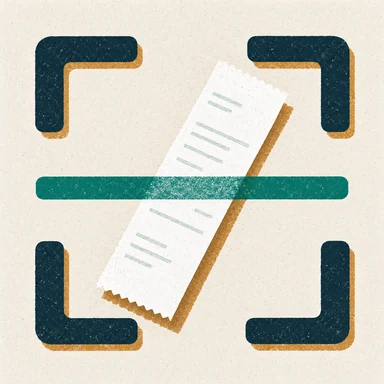
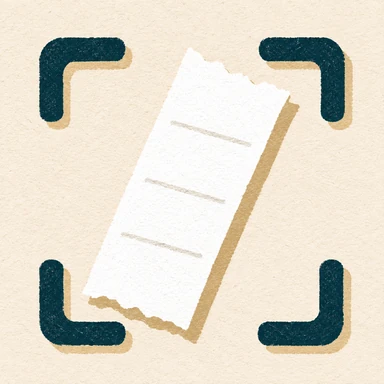
feat(scan): garis hijaunya yang menyapu, ilustrasinya diam
Sebelumnya seluruh ilustrasi diangguk 3 px selama AI membaca struk. Mata
membacanya sebagai gambar goyang, bukan sebagai alat yang sedang memindai —
seorang pengguna menanyakan tepat itu.

Sekarang ilustrasinya dua lapis:

- `scan.webp` — bingkai bidik, struk, dan bayangannya, tanpa garis hijau.
- `scan-line.webp` — satu berkas garis hijau bergrain dengan latar transparan.

Hanya lapis kedua yang bergerak: `translate3d` dari 6 px ke 78 px, 2,3 detik,
bolak-balik dengan easing yang melambat di kedua ujung. Transform dan bukan
`top`/`height`, jadi kompositor yang menjalankannya di 60 fps tanpa reflow;
tidak ada frame tetap yang bisa tersendat. Dengan `prefers-reduced-motion:
reduce` animasinya mati dan garis berhenti di tengah.

Garisnya diletakkan 10% dari tepi dengan lebar 80% supaya berjalan di dalam
bingkai bidik, tidak menimpa bracket — kalau menimpa, ia terbaca sebagai
tempelan datar di atas gambar, bukan cahaya yang menyapu di dalam bingkai.

Dibuktikan dengan probe WebKit: transform garis berubah tiap 250 ms
(8,6 → 15,2 → 25,8 → 39,6 → 55,4 → 66,9 px), transform ilustrasi `none`, dan
posisi garis tetap di dalam kotak ilustrasi pada semua fase (0-100%).

Kedua aset dibuat lewat `image_gen` Codex dari kontrak seni yang sama
(`ART_CONTRACT.md`); lapis garis diminta eksplisit tanpa latar dan tanpa
bayangan supaya bisa bergerak sendiri.

Uji baru `photo-intents.spec.ts` 40b menjaga sifat ini: ilustrasi `none`,
[…]

diff --git a/frontend/tests/photo-intents.spec.ts b/frontend/tests/photo-intents.spec.ts
@@ -113,6 +113,64 @@ test.describe('Bill baru — foto boleh dibaca AI, boleh cuma dilampirkan', () =
     await expect(page.getByText(/Membaca struk…/)).toHaveCount(0)
   })
 
+  test('40b. yang bergerak saat memindai hanya garis hijaunya, bukan ilustrasinya', async ({ page }) => {
+    await freshUser(page, 'Candra')
+    // Tahan keadaan memindai cukup lama untuk diukur.
+    await page.route('**/api/ocr', async (route) => {
+      await new Promise((resolve) => setTimeout(resolve, 15000))
+      await route.fulfill({
+        status: 422,
+        contentType: 'application/json',
+        body: JSON.stringify({ detail: 'terlalu lama' }),
+      })
+    })
+
+    await page.goto('/create')
+    await pickPhotoThrough(page, 'Scan pakai AI')
+    await expect(page.locator('.ds-scan-beam')).toBeVisible({ timeout: 20000 })
+
+    /* Ilustrasinya harus diam: dulu seluruh gambar diangguk 3 px, dan mata
+       membacanya sebagai gambar goyang, bukan alat yang sedang memindai. */
+    const latar = await page.evaluate(
+      () => getComputedStyle(document.querySelector('.ds-scan-art > img') as Element).transform,
+    )
+    expect(latar, 'ilustrasi tidak boleh ikut bergerak').toBe('none')
+
+    // Garisnya bergerak, dan bergerak dengan transform (kompositor, bukan layout).
+    const baca = () =>
+      page.evaluate(() => {
+        const beam = document.querySelector('.ds-scan-beam') as HTMLElement
+        const art = document.querySelector('.ds-scan-art') as HTMLElement
+        const gaya = getComputedStyle(beam)
+        return {
+          transform: gaya.transform,
+          animasi: gaya.animationName,
+          beam: beam.getBoundingClientRect().toJSON(),
+          art: art.getBoundingClientRect().toJSON(),
+        }
+      })
+
+    const awal = await baca()
+    expect(awal.animasi).toBe('scan-sweep')
+    await page.waitForTimeout(500)
+    const tengah = await baca()
+    expect(tengah.transform, 'garis harus bergerak').not.toBe(awal.transform)
+
+    // Selama bergerak, garis tetap di dalam kotak ilustrasi.
+    for (const f of [awal, tengah]) {
+      expect(f.beam.top, 'garis keluar dari atas kotak').toBeGreaterThanOrEqual(f.art.top - 0.5)
+      expect(f.beam.bottom, 'garis keluar dari bawah kotak').toBeLessThanOrEqual(f.art.bottom + 0.5)
+    }
+
+    // Yang meminta gerak dikurangi: garisnya diam di tengah, bukan melambat.
+    await page.emulateMedia({ reducedMotion: 'reduce' })
+    const diam = await page.evaluate(() => {
+      const beam = document.querySelector('.ds-scan-beam') as HTMLElement
+      return getComputedStyle(beam).animationName
+    })
+    expect(diam, 'gerak dikurangi berarti animasinya mati').toBe('none')
+  })
+
   test('41. struk yang pajaknya sudah termasuk: kolom pajak dikunci, bill ditandai', async ({ page }) => {
     await freshUser(page, 'Budi')
     await page.route('**/api/ocr', (route) =>

diff --git a/frontend/src/app.css b/frontend/src/app.css
@@ -372,12 +372,50 @@ p, small, .app-note { text-wrap: pretty; }
 
 .welcome-art { border-radius: 22px; object-fit: cover; }
 
-.ds-create-hero.is-scanning img {
-  animation: scan-settle 1.6s ease-in-out infinite;
+/* Ilustrasi pindai: gambarnya diam, hanya garis hijaunya yang bergerak.
+   Sebelumnya seluruh ilustrasi diangguk 3 px — mata membacanya sebagai gambar
+   yang goyang, bukan sebagai alat yang sedang memindai. Sekarang yang bergerak
+   hanya satu lapis: berkas garis hasil generate (`scan-line.webp`) di atas
+   latar yang diam, digerakkan `transform` saja sehingga kompositor yang
+   menjalankannya di 60 fps tanpa reflow dan tanpa satu pun frame tetap. */
+.ds-scan-art {
+  position: relative;
+  width: 120px;
+  height: 120px;
+  flex: none;
+  border-radius: 16px;
+  overflow: hidden;
+  isolation: isolate;
 }
-@keyframes scan-settle {
-  0%, 100% { transform: translateY(0) }
-  50% { transform: translateY(-3px) }
+.ds-scan-art > img:first-child {
+  width: 100%;
+  height: 100%;
+  border-radius: 16px;
+  display: block;
+}
+.ds-create-hero .ds-scan-beam {
+  position: absolute;
+  /* Sedikit di dalam bingkai bidik: kalau garisnya menimpa bracket, yang
+     terlihat adalah tempelan datar di atas gambar, bukan cahaya yang menyapu
+     di dalam bingkai. */
+  left: 10%;
+  width: 80%;
+  height: auto;
+  top: 0;
+  pointer-events: none;
+  will-change: transform;
+  animation: scan-sweep 2.3s cubic-bezier(.45, 0, .55, 1) infinite alternate;
+}
+@keyframes scan-sweep {
+  from { transform: translate3d(0, 6px, 0) }
+  to   { transform: translate3d(0, 78px, 0) }
+}
+/* Kurangi gerak, jangan sekadar memperlambat: garisnya berhenti di tengah. */
+@media (prefers-reduced-motion: reduce) {
+  .ds-create-hero .ds-scan-beam {
+    animation: none;
+    transform: translate3d(0, 42px, 0);
+  }
 }
 
 .welcome-body {

diff --git a/frontend/src/screens/Create.tsx b/frontend/src/screens/Create.tsx
@@ -9,6 +9,7 @@ import { Alert, Button, DateField, Field, SectionHead, Sheet } from '../ds/primi
 import { Plus, X } from '@phosphor-icons/react'
 import createHeroArt from '../assets/create-hero.webp'
 import scanArt from '../assets/scan.webp'
+import scanLine from '../assets/scan-line.webp'
 import { invalidateMoneyViews } from '../lib/mutations'
 import { useContacts, type Contact } from '../lib/queries'
 import { PeoplePicker } from '../components/PeoplePicker'
@@ -390,7 +391,11 @@ export function Create({ identityId }: { identityId: string | null }) {
         </section>
       ) : photoBusy ? (
         <div className={'ds-create-hero' + (photoBusy === 'ocr' ? ' is-scanning' : '')} role="status">
-          <img src={scanArt} alt="" width={92} height={92} />
+          {/* Ilustrasi diam; hanya garis hijaunya yang menyapu atas-bawah. */}
+          <span className="ds-scan-art">
+            <img src={scanArt} alt="" width={120} height={120} />
+            {photoBusy === 'ocr' ? <img className="ds-scan-beam" src={scanLine} alt="" aria-hidden="true" /> : null}
+          </span>
           <div>
             <b>
               {photoBusy === 'ocr'

diff --git a/TEST-MATRIX.md b/TEST-MATRIX.md
@@ -296,7 +296,7 @@ Dijalankan di Chromium headful yang sudah punya sesi Google, terhadap build live
 
 ## Kotak hitam 1.0 — e2e sebagai orang yang belum pernah melihat aplikasi
 
-Sembilan belas berkas, **134 kasus**, semuanya dijalankan lewat layar: tidak ada
+Sembilan belas berkas, **135 kasus**, semuanya dijalankan lewat layar: tidak ada
 satu pun pemanggilan API langsung untuk menyiapkan keadaan, karena yang diuji
 adalah apa yang bisa dilakukan orang, bukan apa yang bisa dilakukan klien HTTP.
 
@@ -325,7 +325,7 @@ Sejak bug sheet iPhone, setiap kasus dijalankan di **dua mesin**: `mobile-chrome
 | `tests/blackbox-eighteen.spec.ts` | 6 | orang yang belum tahu apa-apa: tautan bill dari orang asing, langkah berikutnya setelah memilih, tautan salah, jaringan mati, nominal miliaran di 320 px, bahasa daftar aksi |
 | `tests/blackbox-nineteen.spec.ts` | 6 | isian uang seperti orang mengetik: tempel "Rp 25.000", ketik "25rb", jumlah dikosongkan lalu 0, jumlah 999, nama item hanya spasi, tempel nama menu beberapa baris |
 
-Jumlah seluruhnya: **626 penjalanan** (313 kasus × 2 mesin).
+Jumlah seluruhnya: **628 penjalanan** (314 kasus × 2 mesin).
 
 **Hasil putaran penuh terakhir (serial, dua mesin): 606 lulus, 20 dilewati,
 0 gagal, 1,5 jam.** Yang dilewati adalah kasus yang memang butuh OCR asli,
@@ -412,3 +412,17 @@ mesin (`budi` tidak menjadi `Budi`).
 Enam gelombang terakhir (40 kasus) tidak menemukan cacat uang: pembagian, pajak
 proporsional, diskon, dan pembulatan tetap konsisten di layar tamu, layar pemilik,
 dan rekap. Satu-satunya cacat baru ada di lapisan tombol (butir 9 di atas).
+
+## Animasi pindai: garisnya yang bergerak, bukan gambarnya
+
+Ilustrasi `scan.webp` dan berkas garis `scan-line.webp` adalah dua lapis terpisah.
+Gambarnya diam; hanya garis hijau yang menyapu atas-bawah lewat `transform`
+(`scan-sweep`, 2,3 detik, bolak-balik) sehingga kompositor yang menjalankannya di
+60 fps. Diuji oleh `photo-intents.spec.ts` kasus **40b**: transform ilustrasi harus
+`none`, transform garis harus berubah, garis harus tetap di dalam kotak ilustrasi,
+dan dengan `prefers-reduced-motion: reduce` animasinya mati (bukan melambat).
+
+Kenapa bukan sprite frame: `image_gen` hanya menghasilkan gambar diam, dan
+menjejalkan beberapa frame hasil generate membuat gerakannya tersendat sekaligus
+goyah antar-frame. Satu lapis per bagian yang bergerak + transform CSS adalah
+satu-satunya jalan yang benar-benar mulus.
